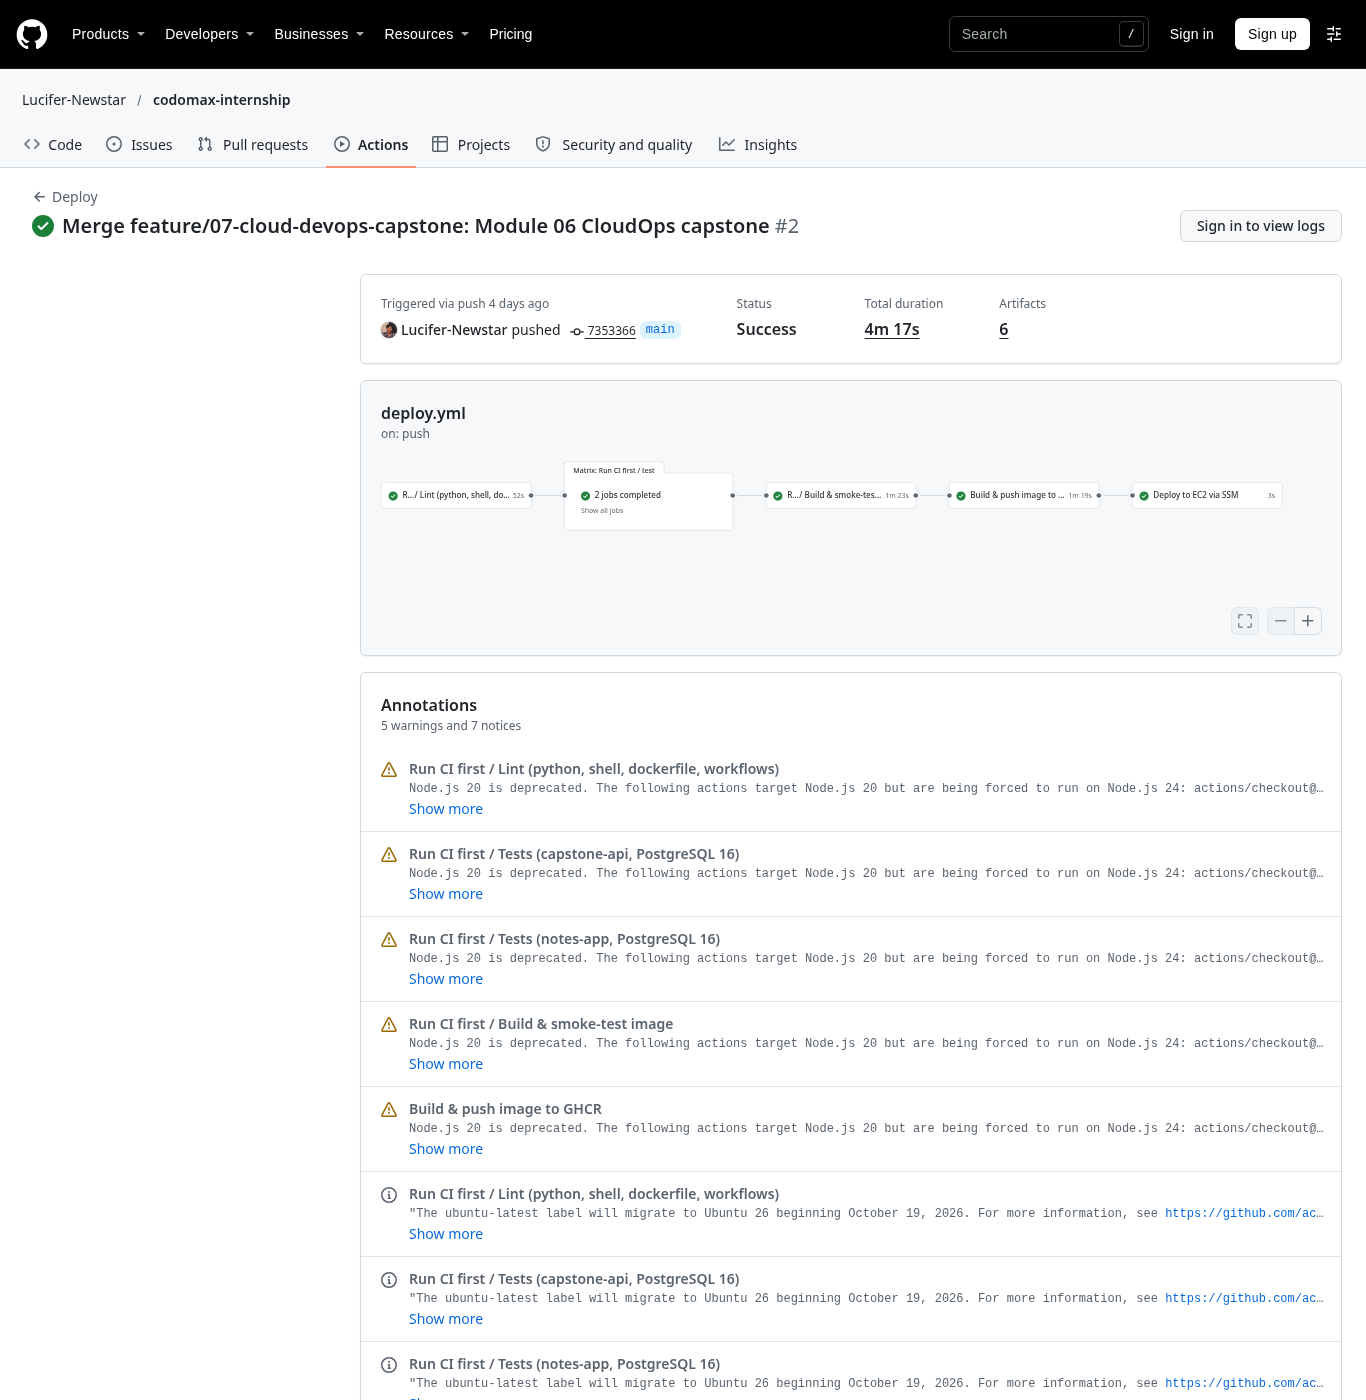
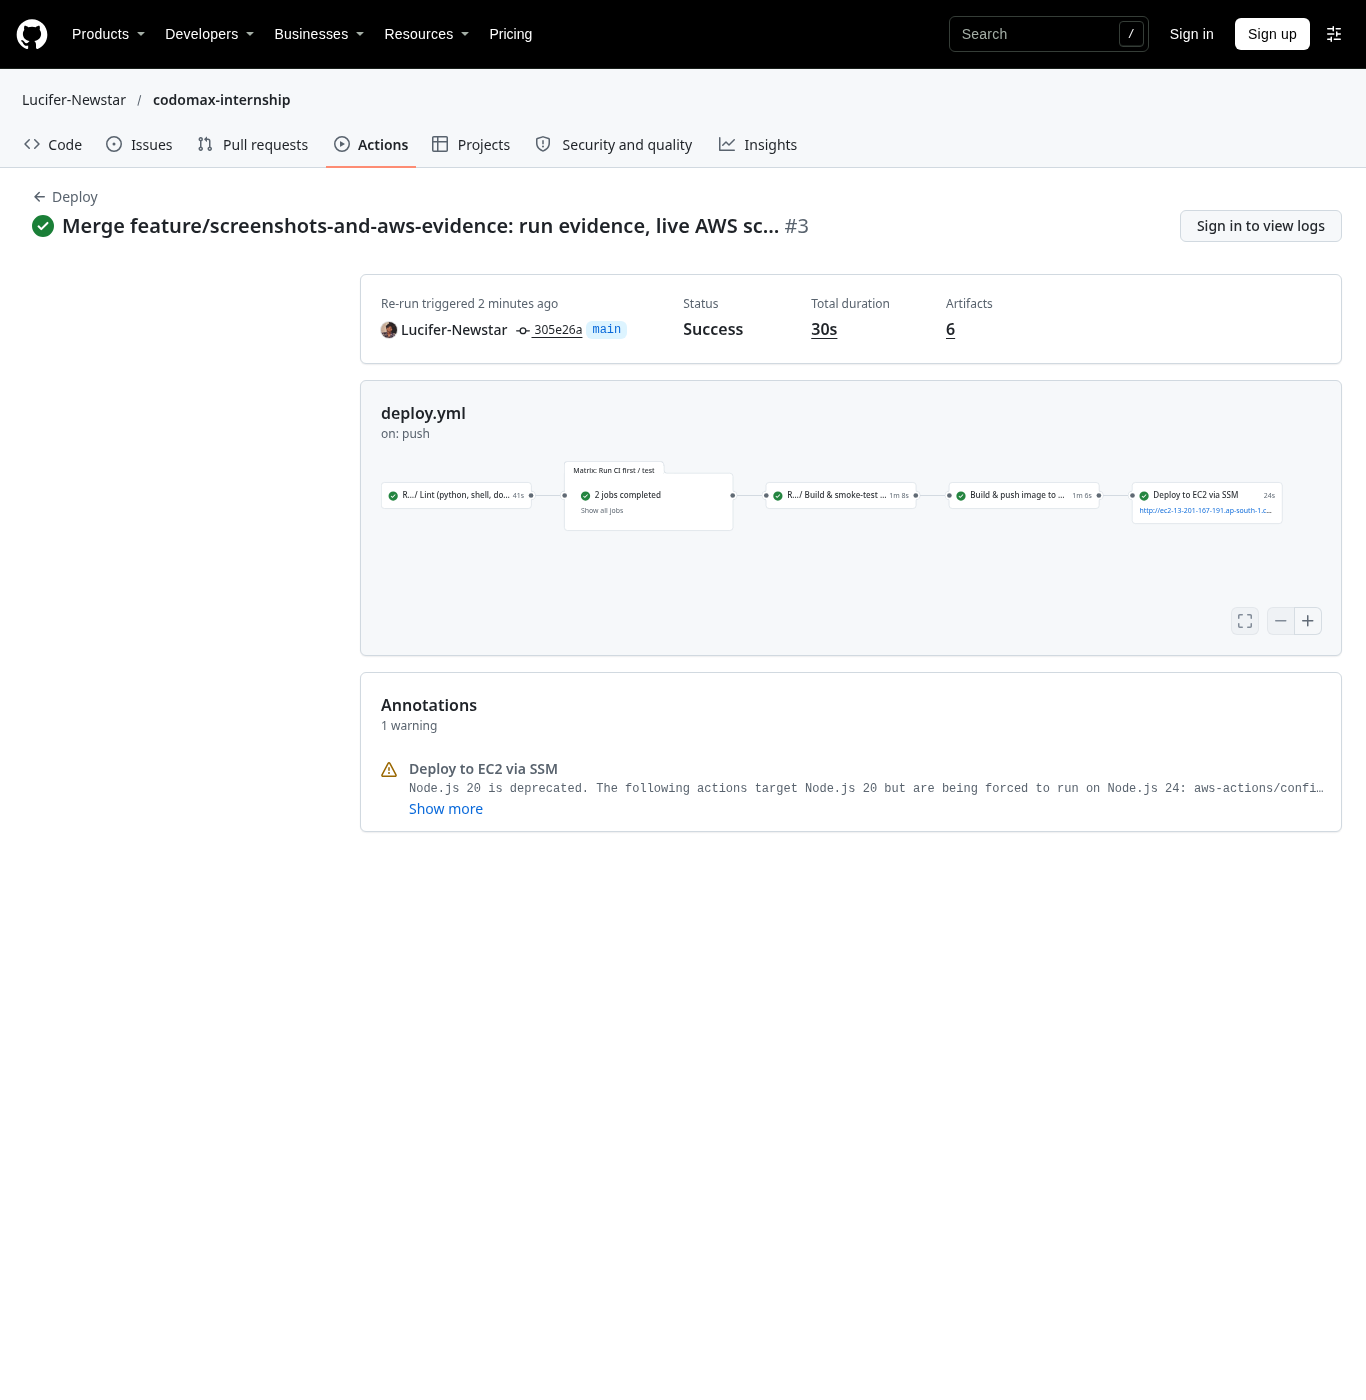
06/07: real CI/CD deploy evidence - OIDC+SSM deploy run #3 green, verify step git_sha match

diff --git a/06-devops-cicd-monitoring/screenshots/README.md b/06-devops-cicd-monitoring/screenshots/README.md
@@ -9,7 +9,7 @@
 | `05-cicd-success.png` | Actions → Deploy run: all three jobs green, step summary with instance output | ✅ captured |
 | `06-ghcr-package.png` | Packages → `cloudops-notes` with sha + latest tags | ✅ captured |
 | `07-oidc-role.png` | IAM role `cloudops-github-deploy` trust policy showing the `sub` condition — created with `aws/github_oidc_setup.sh` on 21 Nov 2026 | ✅ captured |
-| `08-deployment-verified.png` | Deploy job "verify deployment health" step + the app in the browser | pending real deploy run (repo variables set 21 Nov 2026; runs on next push to `main`) |
+| `08-deployment-verified.png` | Deploy job "verify deployment health" step + the app in the browser | ✅ captured (real OIDC+SSM deploy run #3, 21 Nov 2026) |
 | `09-cloudwatch-container-logs.png` | Log group `/cloudops/docker` with the `cloudops-web-*` stream | pending — the capstone stack logs to `/cloudops/capstone` instead (see capstone `07-cloudwatch-logs.png`) |
 | `10-docker-stats.png` | `monitoring/docker_stats_snapshot.sh` output | pending AWS |
 | `11-healthcheck.png` | `monitoring/healthcheck.sh once` → 5× ok — captured locally against the module-4 app on 21 Nov 2026 | ✅ captured |

diff --git a/07-cloud-devops-capstone/screenshots/README.md b/07-cloud-devops-capstone/screenshots/README.md
@@ -7,7 +7,7 @@
 | `03-database-connected.png` | `curl /health/ready` + `curl /api/tasks` against the live host | ✅ captured (live AWS) |
 | `04-docker-containers.png` | on the host: `docker compose -f /opt/cloudops/docker-compose.yml ps` (3 healthy) | ✅ captured |
 | `05-cicd-success.png` | Actions → Deploy run: CI → build & push → deploy, summary with instance output | ✅ captured |
-| `06-deployment-verified.png` | verify step output (`running git_sha=… expected=…`) and GHCR packages page | pending real deploy run (repo variables set 21 Nov 2026; runs on next push to `main`) |
+| `06-deployment-verified.png` | verify step output (`running git_sha=… expected=…`) and GHCR packages page | ✅ captured (real OIDC+SSM deploy run #3, 21 Nov 2026) |
 | `07-cloudwatch-logs.png` | log group `/cloudops/capstone`, streams `cloudops-capstone-{db,backend,frontend}`, JSON lines | ✅ captured |
 | `08-cloudwatch-alarms.png` | the three alarms + `CloudOps/Availability` metric | ✅ captured |
 | `09-metrics-endpoint.png` | `curl http://<host>/metrics` against the live host | ✅ captured (live AWS) |
